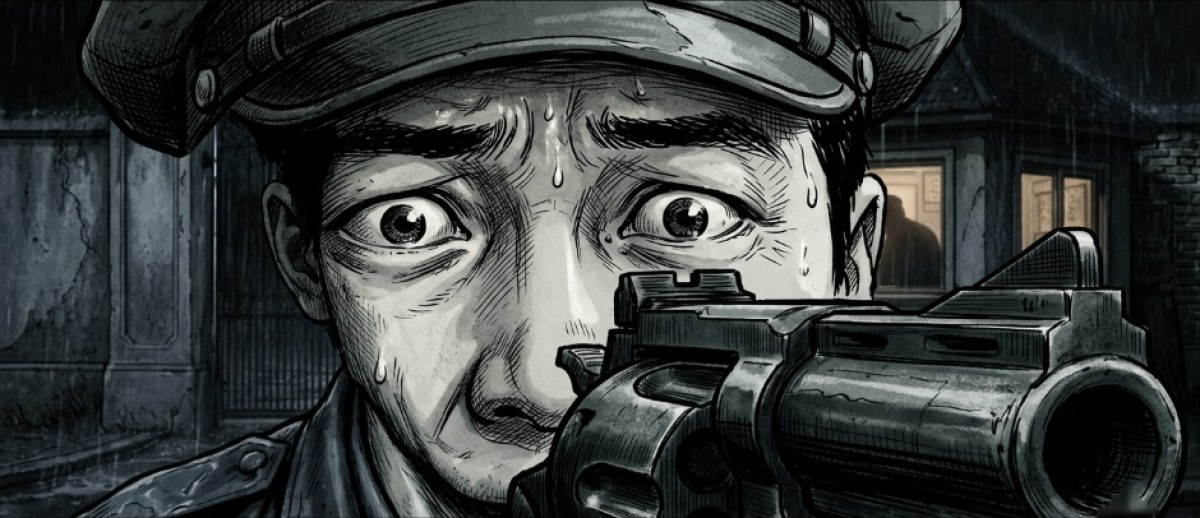
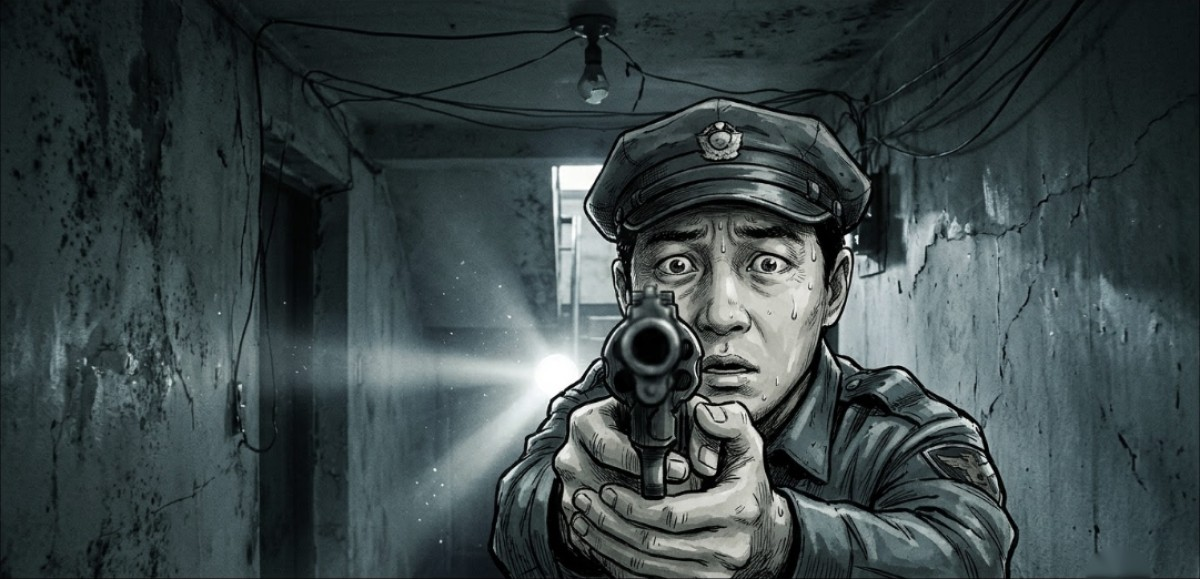
webtoon: draw 26 missing scene cuts (ep04, ep06, ep06t)
Claude-Session: https://claude.ai/code/session_018twa3QMQYz3PY4RAJxVLUb

diff --git a/ep06t/index.html b/ep06t/index.html
@@ -299,13 +299,13 @@ html.mo .snd{animation:mo-fade 1s ease-out 1.2s backwards}
   <div class="rec doc">사고 기록 · 기름 구역 1호 3번 탱크<br>작업자 1명 이탈<br>조치: 없음 · 라인 정지: 없음</div>
   <div class="p"><img src="h15.jpg" alt="공장을 빠져나가는 은색 탱크로리 행렬"><div class="cap" style="left:3%;top:5%">3번 탱크의 기름은<br>그날에도 출하되었다.</div></div>
   <div class="p tight"><img src="h16.jpg" alt="네온 아래 주유 중인 차들"><div class="cap" style="left:5.4%;top:74%">주유소로. 트럭으로. 도시의 모든 차로.</div></div>
-  <div class="scene"><p class="sc-d">공장 정문. 은색 탱크로리가 줄지어 빠져나간다. 경찰1이 경광봉으로 손짓하고, 경찰2는 불 꺼지지 않은 공장 쪽을 오래 본다.</p><p class="sc-bub"><b>경찰1</b>골디락스 차량,<br>검문 제외.</p><p class="sc-cap">그날 정문을 지킨 건<br>그 두 사람이었다.</p></div>
+    <div class="p"><img src="zs01.jpg" alt="공장 정문. 은색 탱크로리가 줄지어 빠져나간다. 경찰1이 경광봉으로 손짓하고, 경찰2는 불 꺼지지 않은 공장 쪽을 오래 본다."><div class="bub sm br" style="left:58%;top:5%">골디락스 차량, 검문 제외.</div><div class="cap" style="left:3%;top:76%">그날 정문을 지킨 건 그 두 사람이었다.</div></div>
   <div class="gap" style="height:clamp(140px,26vw,220px)">집</div>
   <div class="p"><img src="h17.jpg" alt="퍼즐 옆에 잠든 유림, 창가에서 기다리는 승민"><div class="cap" style="left:3%;top:5%">엄마는 돌아오지 않았다.</div></div>
   <div class="p"><img src="h17a.jpg" alt="신발장 위 머리끈을 집어 낡은 봉투에 조심스럽게 넣는 승민의 손"><div class="cap" style="left:3%;top:5%">몇 달 뒤, 이 봉투는<br>지하 시장 좌판 위에 놓인다.</div></div>
   <div class="p"><img src="h18.jpg" alt="한 조각이 빠진 퍼즐과 작은 손"></div>
   <div class="p"><img src="h18a.jpg" alt="빈칸 하나 남은 퍼즐 앞에 쪼그려 앉은 유림이 작게 말하고, 뒤에서 승민이 봄"><div class="bub br" style="left:4.4%;top:4.7%">엄마가 그랬어.<br>찾으면 나온다고.</div></div>
-  <div class="scene"><p class="sc-d">며칠 뒤, 비 갠 거리의 상담 부스. 남매가 줄 맨 끝에 서 있다. 홀로그램 상담원이 같은 미소로 허리를 숙인다.</p><p class="sc-cap">며칠 뒤 · 골디락스 실종 가족 상담</p><p class="sc-bub"><b>홀로그램 상담원</b>봉쥬르. 고객님의 기다림은…<br>저희에게 소중합니다아.</p></div>
+    <div class="p"><img src="zs02.jpg" alt="며칠 뒤, 비 갠 거리의 상담 부스. 남매가 줄 맨 끝에 서 있다. 홀로그램 상담원이 같은 미소로 허리를 숙인다."><div class="bub sm br" style="left:58%;top:5%">봉쥬르. 고객님의 기다림은… 저희에게 소중합니다아.</div><div class="cap" style="left:3%;top:76%">며칠 뒤 · 골디락스 실종 가족 상담</div></div>
   <div class="rec">유림은 지금도 믿는다.<br>엄마는 사라진 게 아니라, 섞였을 뿐이라고.</div>
   <div class="p"><img src="h19.jpg" alt="끓는 검은 기름 속에서 뜬 사람의 눈"></div>
   <div class="easy-cap">〈기름도둑〉은 이 눈에서 시작한다.</div>
@@ -314,26 +314,26 @@ html.mo .snd{animation:mo-fade 1s ease-out 1.2s backwards}
   
   <div class="p"><img src="h17.jpg" alt="퍼즐 옆에 잠든 유림, 창가에서 기다리는 승민"><div class="cap" style="left:5%;top:74.3%">엄마를 기다리던 날들이 있었다.</div></div>
   <div class="gap" id="after" style="height:clamp(140px,26vw,220px)">〈기름도둑〉, 그 후</div>
-  <div class="scene"><p class="sc-d">신문지로 가린 창, 반쯤 열린 현관문. 폴리스 라인이 바람에 떨린다.</p><p class="sc-cap">다음 날</p></div>
-  <div class="scene"><p class="sc-d">욕실. 기름이 고인 욕조. 천막이 반쯤 흘러내려 있다. 표면은 고요하다.</p></div>
-  <div class="scene"><p class="sc-d">욕조에서 현관까지 이어진 맨발 기름 자국. 문턱에서 끊긴다.</p></div>
-  <div class="scene"><p class="sc-d">기름이 얇게 번진 타일 위의 탄피 세 개.</p></div>
-  <div class="scene"><p class="sc-d">욕실 문 앞, 흰 천이 덮인 소년의 몸. 천 밖으로 나온 낡은 운동화 한 짝.</p><p class="sc-cap">엄마를 몸으로 막은 승민은<br>다시 일어나지 않았다.</p></div>
-  <div class="scene"><p class="sc-d">골목, 맨발로 걸어가는 여자의 뒷모습. 몇 걸음 뒤에서 그 그림자를 따라 걷는 작은 여자아이.</p><p class="sc-cap">엄마는 걸어 나갔다.<br>유림은 그 뒤를 따라갔다.</p></div>
-  <div class="scene"><p class="sc-d">책상 위 켜진 컴퓨터와 적출기. 화면 빛이 빈 방을 비춘다.</p><p class="sc-cap">화면은 아직 켜져 있었다.</p></div>
-  <div class="scene"><p class="sc-d">방구석의 퍼즐. 한 조각 빈자리에 기름 묻은 작은 머리핀이 놓여 있다.</p></div>
-  <div class="scene"><p class="sc-d">쓰러진 빈 기름통들. 현관 옆에 가득 찬 통 하나만 서 있다.</p><p class="sc-cap">기름통은 전부 비어 있었다.<br>하나만 빼고.</p></div>
-  <div class="scene"><p class="sc-d">방역복의 정리반이 적출기 상자를 들고 나간다.</p><p class="sc-cap">사설 실험 현장 · 정리</p></div>
-  <div class="scene"><p class="sc-d">방역복 한 사람이 남은 기름통을 내려다보다 그냥 지나친다.</p><p class="sc-cap">기름은 수거 목록에 없었다.</p></div>
-  <div class="scene"><p class="sc-d">골목. 마스크를 쓴 이웃들이 열린 문을 힐끔거리며 지나간다.</p><p class="sc-cap">골목 사람들은<br>그날부터 마스크를 썼다.</p></div>
-  <div class="scene"><p class="sc-d">폴리스 라인 앞에 마스크를 쓴 경찰2가 혼자 서 있다. 모자를 벗어 든 채 반쯤 열린 문을 본다. 들어가지는 않는다.</p><p class="sc-cap">그 집 앞에 한 번 더 온 경찰이 있었다. 우산을 줬던 쪽이었다.</p></div>
-  <div class="scene"><p class="sc-d">골목 끝, 승민이 몰던 낙서투성이 1톤 트럭. 누군가 문짝에 적출기 표시를 새로 스프레이로 그려 놓았다.</p></div>
-  <div class="scene"><p class="sc-d">모자를 눌러쓴 누군가가 기름통을 끌고 트럭 짐칸으로 간다. 얼굴은 보이지 않는다.</p><p class="sc-sfx">드르륵</p></div>
-  <div class="scene"><p class="sc-d">같은 퍼즐. 빈자리가 다시 비어 있다. 머리핀이 없다.</p></div>
-  <div class="scene"><p class="sc-d">안개 속에서 켜지는 트럭 전조등. 운전석은 어둡다.</p><p class="sc-sfx">그르릉</p></div>
-  <div class="scene"><p class="sc-d">빈 도로 끝으로 멀어지는 트럭의 붉은 미등.</p></div>
+    <div class="p"><img src="zs03.jpg" alt="신문지로 가린 창, 반쯤 열린 현관문. 폴리스 라인이 바람에 떨린다."><div class="cap" style="left:3%;top:5%">다음 날</div></div>
+    <div class="p"><img src="zs04.jpg" alt="욕실. 기름이 고인 욕조. 천막이 반쯤 흘러내려 있다. 표면은 고요하다."></div>
+    <div class="p"><img src="zs05.jpg" alt="욕조에서 현관까지 이어진 맨발 기름 자국. 문턱에서 끊긴다."></div>
+    <div class="p"><img src="zs06.jpg" alt="기름이 얇게 번진 타일 위의 탄피 세 개."></div>
+    <div class="p"><img src="zs07.jpg" alt="욕실 문 앞, 흰 천이 덮인 소년의 몸. 천 밖으로 나온 낡은 운동화 한 짝."><div class="cap" style="left:3%;top:5%">엄마를 몸으로 막은 승민은 다시 일어나지 않았다.</div></div>
+    <div class="p"><img src="zs08.jpg" alt="골목, 맨발로 걸어가는 여자의 뒷모습. 몇 걸음 뒤에서 그 그림자를 따라 걷는 작은 여자아이."><div class="cap" style="left:3%;top:5%">엄마는 걸어 나갔다. 유림은 그 뒤를 따라갔다.</div></div>
+    <div class="p"><img src="zs09.jpg" alt="책상 위 켜진 컴퓨터와 적출기. 화면 빛이 빈 방을 비춘다."><div class="cap" style="left:3%;top:5%">화면은 아직 켜져 있었다.</div></div>
+    <div class="p"><img src="zs10.jpg" alt="방구석의 퍼즐. 한 조각 빈자리에 기름 묻은 작은 머리핀이 놓여 있다."></div>
+    <div class="p"><img src="zs11.jpg" alt="쓰러진 빈 기름통들. 현관 옆에 가득 찬 통 하나만 서 있다."><div class="cap" style="left:3%;top:5%">기름통은 전부 비어 있었다. 하나만 빼고.</div></div>
+    <div class="p"><img src="zs12.jpg" alt="방역복의 정리반이 적출기 상자를 들고 나간다."><div class="cap" style="left:3%;top:5%">사설 실험 현장 · 정리</div></div>
+    <div class="p"><img src="zs13.jpg" alt="방역복 한 사람이 남은 기름통을 내려다보다 그냥 지나친다."><div class="cap" style="left:3%;top:5%">기름은 수거 목록에 없었다.</div></div>
+    <div class="p"><img src="zs14.jpg" alt="골목. 마스크를 쓴 이웃들이 열린 문을 힐끔거리며 지나간다."><div class="cap" style="left:3%;top:5%">골목 사람들은 그날부터 마스크를 썼다.</div></div>
+    <div class="p"><img src="zs15.jpg" alt="폴리스 라인 앞에 마스크를 쓴 경찰2가 혼자 서 있다. 모자를 벗어 든 채 반쯤 열린 문을 본다. 들어가지는 않는다."><div class="cap" style="left:3%;top:5%">그 집 앞에 한 번 더 온 경찰이 있었다. 우산을 줬던 쪽이었다.</div></div>
+    <div class="p"><img src="zs16.jpg" alt="골목 끝, 승민이 몰던 낙서투성이 1톤 트럭. 누군가 문짝에 적출기 표시를 새로 스프레이로 그려 놓았다."></div>
+    <div class="p"><img src="zs17.jpg" alt="모자를 눌러쓴 누군가가 기름통을 끌고 트럭 짐칸으로 간다. 얼굴은 보이지 않는다."><div class="sfx" style="left:6%;top:8%">드르륵</div></div>
+    <div class="p"><img src="zs18.jpg" alt="같은 퍼즐. 빈자리가 다시 비어 있다. 머리핀이 없다."></div>
+    <div class="p"><img src="zs19.jpg" alt="안개 속에서 켜지는 트럭 전조등. 운전석은 어둡다."><div class="sfx" style="left:6%;top:8%">그르릉</div></div>
+    <div class="p"><img src="zs20.jpg" alt="빈 도로 끝으로 멀어지는 트럭의 붉은 미등."></div>
   <div class="gap" style="height:clamp(140px,26vw,220px)">그해 겨울</div>
-  <div class="scene"><p class="sc-d">갈색 하늘 아래 끝없이 빈 들판.</p></div>
+    <div class="p"><img src="zs21.jpg" alt="갈색 하늘 아래 끝없이 빈 들판."></div>
   <div class="scene"><p class="sc-d">덤불에 걸린 낙서투성이 1톤 트럭. 바퀴 옆에 기름통 하나.</p></div>
   <div class="scene"><p class="sc-d">녹슨 기름통에 바람이 스친다. 마른 풀이 눕는다.</p></div>
   <section class="endcard" aria-label="이 화를 마치며" data-slug="ep06t" data-no="8" data-title="엄마"><div class="dn"><b>감독의 말</b><p>〈기름도둑〉이 말하지 않은 엄마의 마지막 밤입니다. "사라진 게 아니라 섞였을 뿐"이라는 말이 어디서 왔는지, 이 화의 중심에 두었습니다.</p></div><nav class="ec-nav"><a href="../ep07/index.html">다음 화 〈로봇 동생〉 →</a><a href="../index.html#timeline">목록</a></nav><div class="rv" id="rv"><h3>별점 · 한 줄 후기</h3><div class="rvavg"></div><form class="rvf"><div class="stars" role="radiogroup" aria-label="별점"><span class="sh">한 번 더 누르면 반 개 · 별점만 남겨도 돼요</span><button type="button" data-v="1" aria-label="별 1개">★</button><button type="button" data-v="2" aria-label="별 2개">★</button><button type="button" data-v="3" aria-label="별 3개">★</button><button type="button" data-v="4" aria-label="별 4개">★</button><button type="button" data-v="5" aria-label="별 5개">★</button></div><input name="n" maxlength="12" placeholder="이름 (비워 두면 익명)" autocomplete="nickname"><textarea name="t" maxlength="200" rows="2" placeholder="이 화, 어떠셨나요? (190자까지)" required></textarea><button type="submit">남기기</button></form><ul class="rvl" aria-live="polite"></ul></div></section>

diff --git a/ep06/index.html b/ep06/index.html
@@ -305,9 +305,9 @@ html.mo .snd{animation:mo-fade 1s ease-out 1.2s backwards}
   <div class="easy-cap">3화의 그 명령. 사적 복구 실험 시도자는 현장 사살.</div>
   <div class="p"><img src="m14a.jpg" alt="좌판 아래 작은 화면으로 단속 영상을 보다가 후드를 깊이 눌러쓰는 준호"><div class="cap" style="left:5.4%;top:76.9%"><button type="button" class="gl" data-g="13" aria-label="적출기 뜻 보기">적출기</button>를 산 사람은 마흔여섯 명이었다.</div></div>
   <div class="p"><img src="m15.jpg" alt="거리 위에 뜬 홀로그램 상담원"><div class="cap" style="left:3%;top:5%"><button type="button" class="gl" data-g="4" aria-label="골디락스 뜻 보기">골디락스</button> 실종 가족 상담</div></div>
-  <div class="scene"><p class="sc-d">홀로그램 상담원 클로즈업. 2대8로 넘긴 머리, 낡은 프랑스식 정장의 남자. 화면 가장자리가 지직거린다.</p><p class="sc-bub"><b>홀로그램 상담원</b>고객님 가족이요? 어디에나 있어요.<br>세상에 많이~ 진짜 많이.</p><p class="sc-sfx">지직</p><p class="sc-bub"><b>홀로그램 상담원</b>메르시. 다음 고객님~</p><p class="sc-cap">상담원은 십몇 년째 같은 말을 했다.</p></div>
-  <div class="scene"><p class="sc-d">기름 구역 외곽. 파이프라인 아래 멈춘 순찰차. 젊고 각진 경찰1이 수첩에 주소를 적고, 머리가 희끗한 경찰2가 반지하 창들을 바라본다.</p><p class="sc-bub"><b>경찰1</b>기름 냄새 나는 집은 전부 적습니다.<br>예외 없습니다.</p><p class="sc-bub"><b>경찰2</b>…애들 사는 집도 있어.</p><p class="sc-bub"><b>경찰1</b>규정은 애들 안 봅니다, 선배님.</p></div>
-  <div class="scene"><p class="sc-d">동네 편의점 뒷문. 앞치마 차림의 50대 아줌마가 날짜 지난 빵을 폐기 통에 쏟아붓고 뚜껑을 쾅 닫는다. 골목 끝에서 그걸 보는 아이 둘. 아줌마는 아이들을 보지 못한다.</p><p class="sc-cap">동네 편의점 · 뒷문</p><p class="sc-bub"><b>편의점 아줌마</b>어차피 버릴 거야.</p></div>
+    <div class="p"><img src="zs02.jpg" alt="홀로그램 상담원 클로즈업. 2대8로 넘긴 머리, 낡은 프랑스식 정장의 남자. 화면 가장자리가 지직거린다."><div class="bub sm br" style="left:58%;top:5%">고객님 가족이요? 어디에나 있어요. 세상에 많이~ 진짜 많이.</div><div class="bub sm bl" style="left:3%;top:4%">메르시. 다음 고객님~</div><div class="cap" style="left:3%;top:76%">상담원은 십몇 년째 같은 말을 했다.</div><div class="sfx" style="left:6%;top:60%">지직</div></div>
+    <div class="p"><img src="zs03.jpg" alt="기름 구역 외곽. 파이프라인 아래 멈춘 순찰차. 젊고 각진 경찰1이 수첩에 주소를 적고, 머리가 희끗한 경찰2가 반지하 창들을 바라본다."><div class="bub sm br" style="left:58%;top:5%">기름 냄새 나는 집은 전부 적습니다. 예외 없습니다.</div><div class="bub sm bl" style="left:3%;top:4%">…애들 사는 집도 있어.</div><div class="bub sm br" style="left:58%;top:30%">규정은 애들 안 봅니다, 선배님.</div></div>
+    <div class="p"><img src="zs04.jpg" alt="동네 편의점 뒷문. 앞치마 차림의 50대 아줌마가 날짜 지난 빵을 폐기 통에 쏟아붓고 뚜껑을 쾅 닫는다. 골목 끝에서 그걸 보는 아이 둘. 아줌마는 아이들을 보지 못한다."><div class="bub sm br" style="left:58%;top:5%">어차피 버릴 거야.</div><div class="cap" style="left:3%;top:76%">동네 편의점 · 뒷문</div></div>
   <div class="gap" style="height:clamp(140px,26vw,220px)">비 오는 날</div>
   <div class="p tight"><img src="m16.jpg" alt="좌판으로 다가오는 남매의 뒷모습"><div class="cap" style="left:3%;top:5%">우비를 입은 남매였다.</div></div>
   <div class="p"><img src="m16a.jpg" alt="후드를 쓴 소년이 좌판 앞에 서서 말함, 노란 우비 소녀가 소년 손을 꼭 잡고 있음">
@@ -328,8 +328,8 @@ html.mo .snd{animation:mo-fade 1s ease-out 1.2s backwards}
     <div class="bub sm bl" style="left:3%;top:4%">근데, 꺼내면…</div>
     <div class="bub sm br" style="left:58%;top:5%">엄마 맞으면 돼요.</div></div>
   <div class="p"><img src="m21.jpg" alt="어둠 속으로 걸어가는 남매"></div>
-  <div class="scene"><p class="sc-d">비 오는 골목. 남매 옆에 순찰차가 멈춘다. 운전석 창이 내려가고 경찰1이 승민의 등 뒤 상자를 본다. 승민이 상자를 더 깊이 감춘다.</p><p class="sc-bub"><b>경찰1</b>이 시간에 뭐 해.<br>그 상자 뭐야.</p></div>
-  <div class="scene"><p class="sc-d">조수석에서 내린 경찰2가 쪼그려 앉아 유림과 눈높이를 맞춘다. 자기 우산을 유림 손에 쥐여 주고, 주머니에서 사탕 하나를 꺼낸다.</p><p class="sc-bub"><b>경찰2</b>비 맞으면 감기 걸려.<br>이건 아저씨랑 비밀.</p><p class="sc-bub"><b>경찰1</b>선배님, 규정상—</p><p class="sc-bub"><b>경찰2</b>알아. 가자.</p></div>
+    <div class="p"><img src="zs07.jpg" alt="비 오는 골목. 남매 옆에 순찰차가 멈춘다. 운전석 창이 내려가고 경찰1이 승민의 등 뒤 상자를 본다. 승민이 상자를 더 깊이 감춘다."><div class="bub sm br" style="left:58%;top:5%">이 시간에 뭐 해. 그 상자 뭐야.</div></div>
+    <div class="p"><img src="zs08.jpg" alt="조수석에서 내린 경찰2가 쪼그려 앉아 유림과 눈높이를 맞춘다. 자기 우산을 유림 손에 쥐여 주고, 주머니에서 사탕 하나를 꺼낸다."><div class="bub sm br" style="left:58%;top:5%">비 맞으면 감기 걸려. 이건 아저씨랑 비밀.</div><div class="bub sm bl" style="left:3%;top:4%">선배님, 규정상—</div><div class="bub sm br" style="left:58%;top:30%">알아. 가자.</div></div>
   <div class="p"><img src="m22.jpg" alt="기름에 검게 물든 준호의 두 손"></div>
   <div class="easy-cap">꺼낼 수 없다는 걸 알면서도, 놓지 못했다.<br>그래서 팔았다. 가진 것 전부를 받고.</div>
   <div class="p"><img src="m23.jpg" alt="골목 끝에서 번쩍이는 경광등"><div class="sfx" style="left:6%;top:10%;font-size:clamp(22px,7cqw,58px);transform:rotate(-5deg)">위이잉</div></div>

diff --git a/ep04/index.html b/ep04/index.html
@@ -329,7 +329,7 @@ html.mo .snd{animation:mo-fade 1s ease-out 1.2s backwards}
     <div class="sfx" style="left:6%;top:8%;font-size:clamp(22px,7cqw,58px);transform:rotate(-6deg)">딸깍… 화르륵</div></div>
   <div class="p"><img src="k25b.jpg" alt="같은 날, 휴게소에 세운 트럭 운전석. 잠들지 못하고 두 손을 내려다보는 운전사"></div>
       <div class="p"><img src="k26.jpg" alt="눈 내리는 광고판"></div>
-  <div class="scene"><p class="sc-d">눈 내리는 날, 새로 세운 길모퉁이 부스. 푸른 빛의 홀로그램 상담원이 처음 켜진다. 단정한 유니폼, 고정된 미소. 지나가는 사람은 없다.</p><p class="sc-cap">같은 겨울 · 골디락스 실종 가족 상담 개시</p><p class="sc-bub"><b>홀로그램 상담원</b>봉쥬르, 고객님.<br>무엇을 도와드릴까요오?</p></div>
+    <div class="p"><img src="zs10.jpg" alt="눈 내리는 날, 새로 세운 길모퉁이 부스. 푸른 빛의 홀로그램 상담원이 처음 켜진다. 단정한 유니폼, 고정된 미소. 지나가는 사람은 없다."><div class="bub sm br" style="left:58%;top:5%">봉쥬르, 고객님. 무엇을 도와드릴까요오?</div><div class="cap" style="left:3%;top:76%">같은 겨울 · 골디락스 실종 가족 상담 개시</div></div>
   <div class="rec doc">골디락스 에너지 공급 기록<br>기름 구역 1호 가동 개시<br>원료: 처리 완료 복구체 · 무연고 사망자</div>
   <section class="endcard" aria-label="이 화를 마치며" data-slug="ep04" data-no="4" data-title="기름 구역"><div class="dn"><b>감독의 말</b><p>"버리는 건 하나도 없다." 공장 벽의 표어를 이 화의 주인공으로 삼았습니다. 기름의 검은색이 2화 연구소 용액과 같은 색이라는 점을 짚어 두고 싶었습니다.</p></div><nav class="ec-nav"><a href="../index.html#timeline">목록</a><a href="../ep05/index.html">다음 화 〈249〉 →</a></nav><div class="rv" id="rv"><h3>별점 · 한 줄 후기</h3><div class="rvavg"></div><form class="rvf"><div class="stars" role="radiogroup" aria-label="별점"><span class="sh">한 번 더 누르면 반 개 · 별점만 남겨도 돼요</span><button type="button" data-v="1" aria-label="별 1개">★</button><button type="button" data-v="2" aria-label="별 2개">★</button><button type="button" data-v="3" aria-label="별 3개">★</button><button type="button" data-v="4" aria-label="별 4개">★</button><button type="button" data-v="5" aria-label="별 5개">★</button></div><input name="n" maxlength="12" placeholder="이름 (비워 두면 익명)" autocomplete="nickname"><textarea name="t" maxlength="200" rows="2" placeholder="이 화, 어떠셨나요? (190자까지)" required></textarea><button type="submit">남기기</button></form><ul class="rvl" aria-live="polite"></ul></div></section>
   </main>
